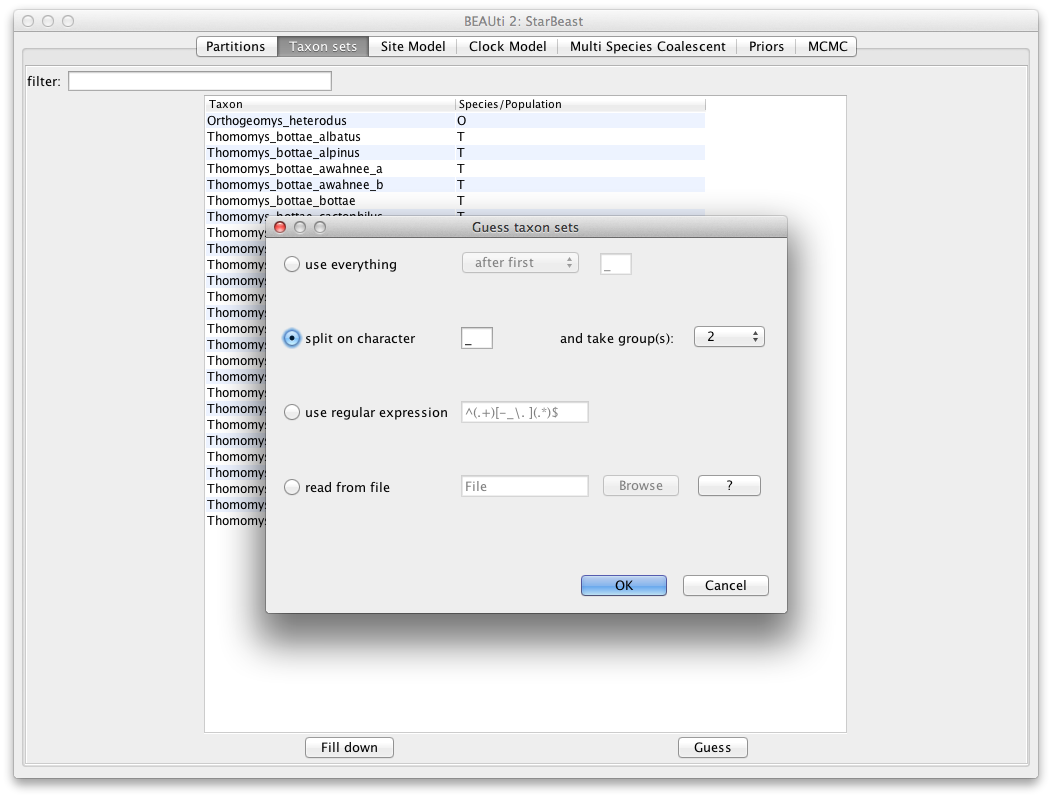
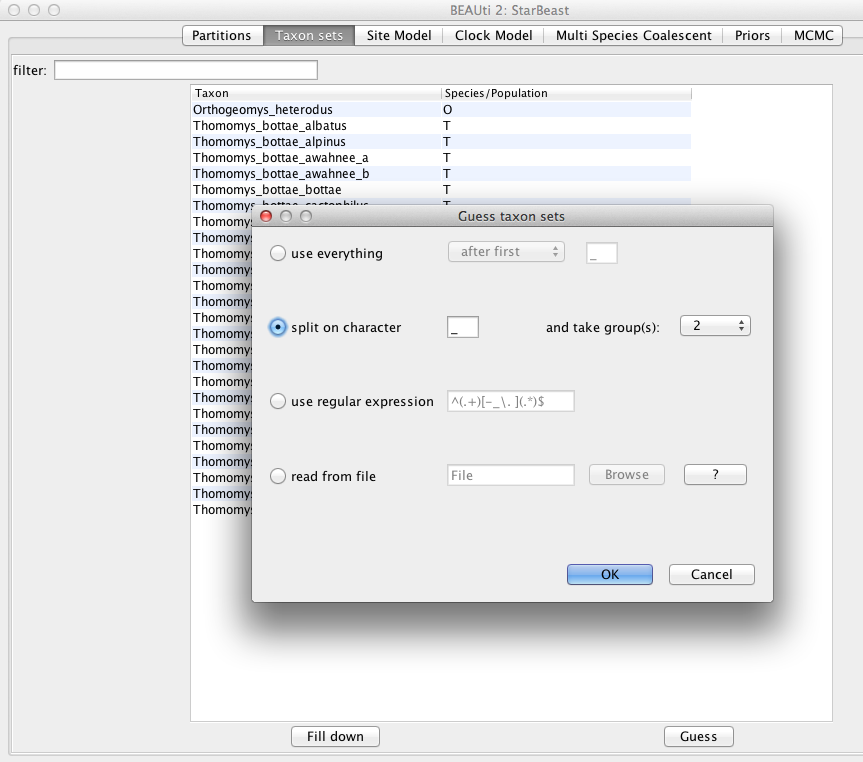
adjusted latex file to adapt the new figure changes

Changed region(s): [[0.0, 0.0, 1.0, 0.9961], [0.5122, 0.6037, 0.6327, 0.6339]]

diff --git a/main.tex b/main.tex
@@ -91,7 +91,7 @@ BEAUti uses templates to populate the BEAST XML configuration file with the nece
 
 \begin{figure}[h]
 \centering
-\includeimage[scale=0.4,clip=true,trim=0 600 200 0]{figures/BEAUti_selectTemplate}
+\includeimage[width=0.9\textwidth]{figures/BEAUti_selectTemplate}
 \caption{\label{fig.template} Select a new template in BEAUti.}
 \end{figure}
 
@@ -135,7 +135,7 @@ Figure~\ref{fig.datapartition} shows the way BEAUti looks after loading the appr
 
 \begin{figure}[h]
 \centering
-\includeimage[scale=0.4,clip=true,trim=0 650 0 0]{figures/BEAUti_DataPartitions}
+\includeimage[width=0.9\textwidth]{figures/BEAUti_DataPartitions}
 \caption{\label{fig.datapartition} Data partition panel after loading alignments.}
 \end{figure}
 
@@ -168,7 +168,7 @@ Alternatively, pressing the {\bf Guess} button in BEAUti, a dialog is shown wher
 
 \begin{figure}[h]
 \centering
-\includeimage[width=0.9\textwidth]{figures/BEAUti_Guess_Taxonsets}
+\includeimage[width=0.75\textwidth]{figures/BEAUti_Guess_Taxonsets}
 \caption{\label{fig.taxonset} Selecting taxon sets in BEAUti using the guess dialog from the Taxon set panel.}
 \end{figure}
 
@@ -188,7 +188,7 @@ of the data on the left side of the panel and set up the same substitution model
 
 \begin{figure}[h]
 \centering
-\includeimage[width=0.9\textwidth,clip=true,trim=0 550 0 0]{figures/BEAUti_Site_Model}
+\includeimage[width=0.9\textwidth]{figures/BEAUti_Site_Model}
 \caption{\label{fig.sitemodel} Setting up substitution and site models for the gopher alignments.}
 \end{figure}
 
@@ -196,11 +196,7 @@ of the data on the left side of the panel and set up the same substitution model
 
 \begin{figure}[h]
 \centering
-\includeimage[scale=0.4,clip=true,trim=0 700 0 0]{figures/BEAUti_ClockModel1}
-\centering
-\includeimage[scale=0.4,clip=true,trim=0 700 0 0]{figures/BEAUti_ClockModel2}
-\centering
-\includeimage[scale=0.4,clip=true,trim=0 700 0 0]{figures/BEAUti_ClockModel3}
+\includeimage[width=0.9\textwidth]{figures/BEAUti_ClockModel}
 \caption{\label{fig.clockmodel} Setting up clock models for the gopher alignments.}
 \end{figure}
 
@@ -220,7 +216,7 @@ The {\bf Ploidy} item determines the type of sequence (mitochondrial, nuclear, X
 
 \begin{figure}[h]
 \centering
-\includeimage[scale=0.4,clip=true,trim=0 400 0 0]{figures/BEAUti_MSP}
+\includeimage[width=0.9\textwidth]{figures/BEAUti_MSP}
 \caption{\label{fig.MSP} Setting up the multi species coalescent model parameters.}
 \end{figure}
 
@@ -242,7 +238,7 @@ The resulting configuration is shown in Figure~\ref{fig.priors}.
 
 \begin{figure}[h]
 \centering
-\includeimage[scale=0.35,clip=true]{figures/BEAUti_settingPriors}
+\includeimage[width=0.75\textwidth]{figures/BEAUti_settingPriors}
 \caption{\label{fig.priors} Setting up parameter priors.}
 \end{figure}
 
@@ -484,7 +480,7 @@ You should now see an image similar to Figure \ref{fig.DensiTree}.
 
 \begin{figure}[h]
 \centering
-\includeimage[scale=0.4]{figures/DensiTree}
+\includeimage[scale=0.5]{figures/DensiTree}
 \caption{\label{fig.DensiTree} DensiTree representation of the species tree.}
 \end{figure}
 
@@ -496,7 +492,7 @@ This gives us visualisation as seen in Figure~\ref{fig.DensiTree.part3}.
 
 \begin{figure}[h]
 \centering
-\includeimage[scale=0.25]{figures/species_population3}
+\includeimage[width=0.6\textwidth]{figures/Species_population3}
 \caption{\label{fig.DensiTree.part3} DensiTree representation of the consensus species tree with population sizes indicated as line widths.}
 \end{figure}
 
@@ -512,8 +508,7 @@ This is true for the areas of the tree with little posterior support for the cla
 
 \begin{figure}[h]
 \centering
-\includeimage[scale=0.18]{figures/species_population1}
-\includeimage[scale=0.18]{figures/species_population2}
+\includeimage[width=0.8\textwidth]{figures/Species_population1}
 \caption{\label{fig.DensiTree.part1} DensiTree representation of the consensus species tree from TreeAnnotator.}
 \end{figure}
 
@@ -521,24 +516,21 @@ Alternatively to TreeAnnotator, a consensus tree can be generated by biopy (\url
 
 \begin{figure}[h]
 \centering
-\includeimage[scale=0.18]{figures/species_population4}
-\includeimage[scale=0.18]{figures/species_population5}
+\includeimage[width=0.8\textwidth]{figures/Species_population2}
 \caption{\label{fig.DensiTree.part2} DensiTree representation of the consensus species tree from biopy.}
 \end{figure}
-
-\begin{figure}[h]
-\centering
-\includeimage[width=\textwidth]{figures/Tracer_compareToPrior}
-\caption{\label{fig.tracerPrior} Tracer showing the comparison between the prior and posterior distribution of the species tree height.}
-\end{figure}
-
-\clearpage
 
 \subsection{Comparing your results to the prior}
 
 Using BEAUti, set up the same analysis but under the {\bf MCMC} options, select the {\bf Sample From Prior} option. Re-run the analysis with BEAST. This will allow you to visualize the full prior distribution in the absence of your sequence data. Summarize the trees from the full prior distribution and compare the summary to the posterior summary tree.
 
 You can also compare the log files from both analyses by loading the log file from the actual analysis and the log file from the prior sampling run into Tracer. Then select both of the files on the left side using the \texttt{shift} key. Now you can select different statistics from the traces and compare their marginal probability distributions. Note that Tracer will not allow you to compare any of the likelihoods as they are always NaN (not a number) in the case of prior sampling.
+
+\begin{figure}[h]
+\centering
+\includeimage[width=\textwidth]{figures/Tracer_compareToPrior}
+\caption{\label{fig.tracerPrior} Tracer showing the comparison between the prior and posterior distribution of the species tree height.}
+\end{figure}
 
 Figure~\ref{fig.tracerPrior} shows an example of comparing the traces of the species tree height. From the plot we can conclude that the sequences contain quite a bit of information about this parameter, as the posterior moved away from the prior and is much more focused on a specific value.
 

diff --git a/README.md b/README.md
@@ -613,7 +613,7 @@ for the upper (start of the branch) pattern and
 for the lower (end of the branch) pattern. This gives us visualisation
 as seen in Figure 15.
 
-![Figure 15](figures/species_population.png) 
+![Figure 15](figures/Species_population3.png) 
 
 Figure 15: DensiTree representation of the
 consensus species tree with population sizes indicated as line widths.
@@ -642,7 +642,7 @@ branch above (more ancestral), using the ‘Make fit to bottom’ option for
 the lower spinner. This looks a bit prettier, but may not be quite
 accurate.
 
-![Figure 16](figures/species_population1.png)
+![Figure 16](figures/Species_population1.png)
 
 Figure 16: DensiTree representation of the
 consensus species tree from TreeAnnotator.
@@ -652,7 +652,7 @@ biopy (<https://github.com/jheled/biopy>). An example is shown in Figure
 17 where 1-norm option has been applied to generate
 the left picture, and 2-norm to obtain the right picture.
 
-![Figure 17](figures/species_population2.png)
+![Figure 17](figures/Species_population2.png)
 
 Figure 17: DensiTree representation of the
 consensus species tree from biopy.
